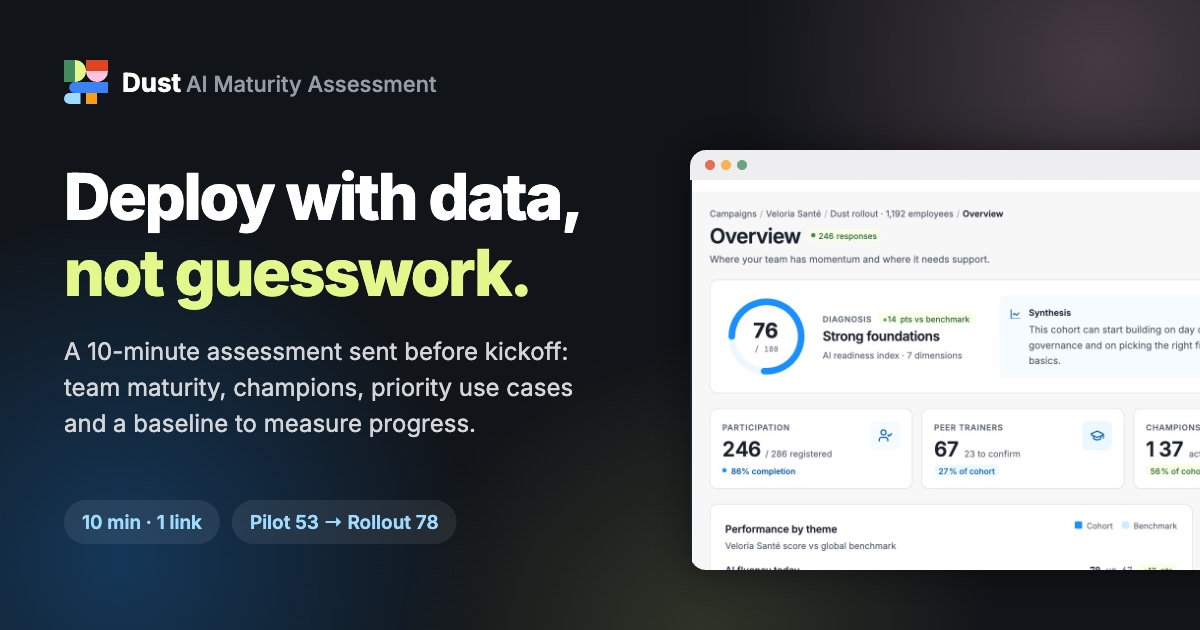
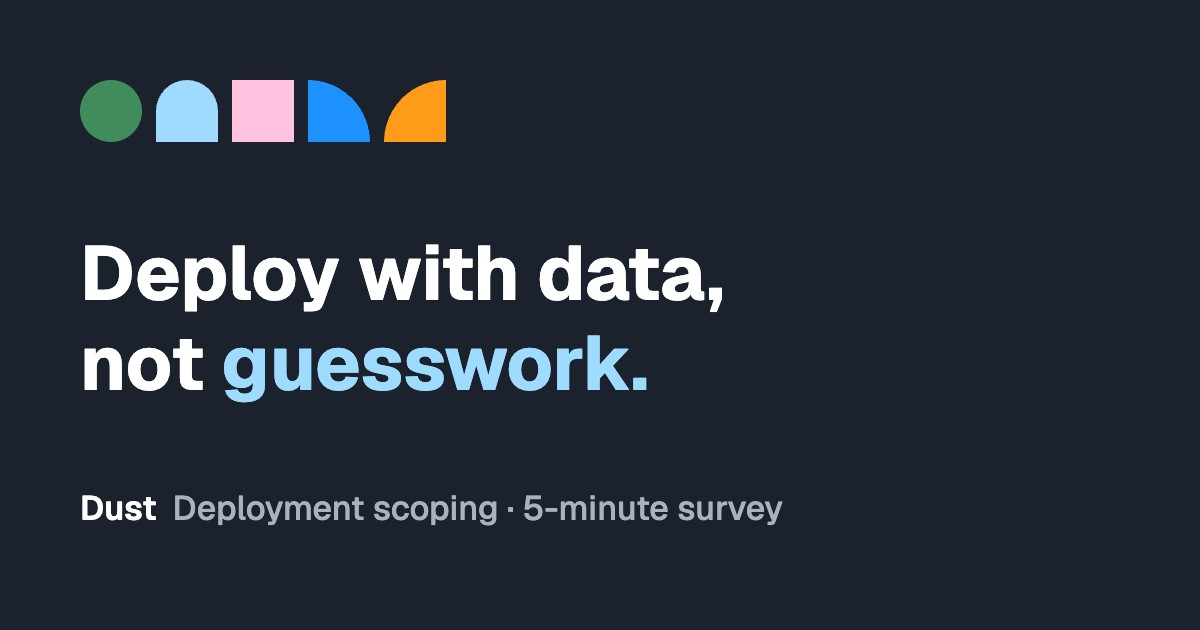
Link previews: 'Deployment scoping' title and image, no maturity wording

diff --git a/index.html b/index.html
@@ -3,20 +3,20 @@
   <head>
     <meta charset="UTF-8" />
     <meta name="viewport" content="width=device-width, initial-scale=1.0" />
-    <title>Dust · AI Maturity Assessment</title>
+    <title>Dust · Deployment scoping</title>
     <link rel="icon" type="image/svg+xml" href="/favicon.svg" />
     <link rel="apple-touch-icon" href="/favicon.svg" />
     <meta name="description" content="A less-than-5-minute survey that helps Dust shape your company’s AI rollout." />
     <meta name="author" content="Dust" />
 
-    <meta property="og:title" content="Dust · AI Maturity Assessment" />
+    <meta property="og:title" content="Dust · Deployment scoping" />
     <meta property="og:description" content="A less-than-5-minute survey that helps Dust shape your company’s AI rollout." />
     <meta property="og:type" content="website" />
     <meta property="og:url" content="https://dust-assessment.com/" />
     <meta property="og:image" content="https://dust-assessment.com/og.jpg" />
     <meta property="og:image:width" content="1200" />
     <meta property="og:image:height" content="630" />
-    <meta property="og:image:alt" content="Deploy with data, not guesswork. Dust AI Maturity Assessment" />
+    <meta property="og:image:alt" content="Dust · Deployment scoping. A 5-minute survey to shape your Dust rollout." />
     <meta name="twitter:image" content="https://dust-assessment.com/og.jpg" />
 
     <meta name="twitter:card" content="summary_large_image" />
